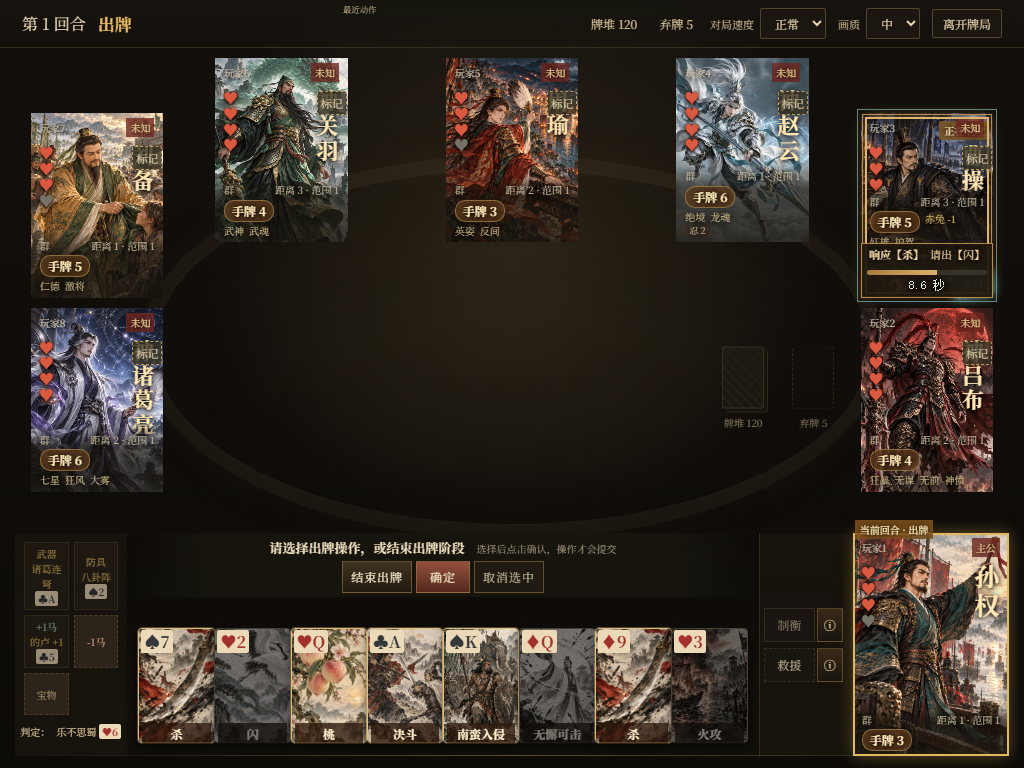
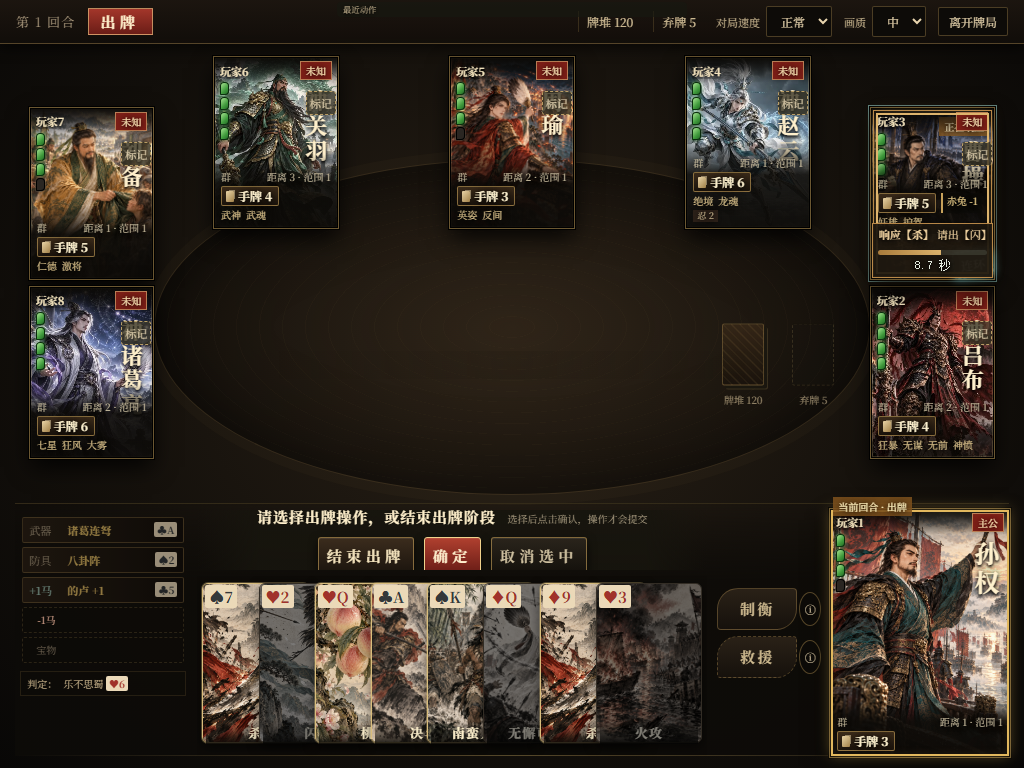
T21 frontend layout interaction and visual refactor
T21.1 visual redesign: lacquer home/lobby/draft screens, mobile-table battle skin

diff --git a/web/src/screens.css b/web/src/screens.css
@@ -1,0 +1,172 @@
+/* T21.1 visual skin for the out-of-game screens: dark lacquer, gold rule lines, ink type.
+   Loads after styles.css/table.css; markup is unchanged. */
+
+:root {
+  --lq-bg: #120f0b;
+  --lq-panel: linear-gradient(180deg, #221a12f2, #15110cf5);
+  --lq-gold: #c9a35c;
+  --lq-gold-hi: #f0d28c;
+  --lq-text: #ecdcb8;
+  --lq-mute: #a6957a;
+  --lq-red: linear-gradient(180deg, #a3362a, #6b1d17);
+  --lq-frame: 0 0 0 1px #000, 0 0 0 2px #c9a35c66, 0 22px 60px #000c;
+}
+
+/* ───────── Shared screen chrome ───────── */
+.home-page, .lobby-page, .pregame-page { color: var(--lq-text); }
+.home-page::before, .table-background::before {
+  background: radial-gradient(ellipse at 30% 40%, transparent 0 30%, #0a0806aa 75%), linear-gradient(90deg, #0a0806ee 0 26%, #0a080655 60%, #0a0806aa);
+}
+.lobby-page::before, .pregame-page::before { background: radial-gradient(ellipse at 50% 40%, #0a080699, #0a0806f0 80%); }
+.home-panel.paper-panel, .lobby-shell.paper-panel, .pregame-shell.paper-panel {
+  background: var(--lq-panel); border: 1px solid #000; border-radius: 2px; box-shadow: var(--lq-frame);
+}
+.home-panel.paper-panel::after, .lobby-shell.paper-panel::after, .pregame-shell.paper-panel::after {
+  inset: 6px; border: 1px solid #c9a35c33;
+  background:
+    linear-gradient(var(--lq-gold), var(--lq-gold)) left top / 22px 2px no-repeat,
+    linear-gradient(var(--lq-gold), var(--lq-gold)) left top / 2px 22px no-repeat,
+    linear-gradient(var(--lq-gold), var(--lq-gold)) right top / 22px 2px no-repeat,
+    linear-gradient(var(--lq-gold), var(--lq-gold)) right top / 2px 22px no-repeat,
+    linear-gradient(var(--lq-gold), var(--lq-gold)) left bottom / 22px 2px no-repeat,
+    linear-gradient(var(--lq-gold), var(--lq-gold)) left bottom / 2px 22px no-repeat,
+    linear-gradient(var(--lq-gold), var(--lq-gold)) right bottom / 22px 2px no-repeat,
+    linear-gradient(var(--lq-gold), var(--lq-gold)) right bottom / 2px 22px no-repeat;
+}
+.home-page .eyebrow, .lobby-page .eyebrow, .pregame-page .eyebrow { color: var(--lq-gold); letter-spacing: .4em; }
+.home-page input, .home-page select, .lobby-page select, .pregame-page input {
+  color: var(--lq-text); background: #0d0b08cc; border: 0; border-bottom: 1px solid #c9a35c88; border-radius: 0; min-height: 44px; padding: 8px 12px;
+}
+.home-page select, .lobby-page select { width: 100%; font: inherit; }
+.home-page input::placeholder { color: #7d6f5a; }
+.home-page input:focus, .pregame-page input:focus { border-bottom-color: var(--lq-gold-hi); box-shadow: 0 6px 12px -8px #f0d28c88; }
+.field-label { color: var(--lq-mute); font-weight: 400; font-size: 13px; letter-spacing: .12em; }
+
+/* Buttons: lacquer plaques with a gold hairline; primary is cinnabar. */
+.home-page .brush-button, .lobby-page .brush-button, .pregame-page .brush-button {
+  position: relative; min-height: 50px; color: #f3e3bd; font-weight: 700; letter-spacing: .3em;
+  background: linear-gradient(180deg, #3b2c1d, #1c150e); border: 1px solid #c9a35c99; border-radius: 2px;
+  box-shadow: inset 0 1px 0 #ffffff14, inset 0 0 0 3px #00000055, 0 6px 16px #0009;
+}
+.home-page .brush-button.primary, .lobby-page .brush-button.primary, .pregame-page .brush-button.primary {
+  background: var(--lq-red); border-color: var(--lq-gold-hi); color: #fff1cf; text-shadow: 0 1px 2px #0008;
+}
+.home-page .brush-button.subtle, .lobby-page .brush-button.subtle, .pregame-page .brush-button.subtle {
+  color: var(--lq-mute); background: #0d0b0899; border-color: #c9a35c44; box-shadow: none;
+}
+.home-page .brush-button:hover:not(:disabled), .lobby-page .brush-button:hover:not(:disabled), .pregame-page .brush-button:hover:not(:disabled) { filter: brightness(1.18); transform: none; border-color: var(--lq-gold-hi); }
+
+/* ───────── Home: title on the art, command column at left ───────── */
+.home-page { place-items: center start; padding: 4vh 0 4vh clamp(24px, 8vw, 150px); }
+.home-panel { width: min(470px, 100%); padding: 40px 44px 26px; text-align: left; }
+.home-panel .seal { right: 28px; top: 34px; width: 54px; height: 54px; font-size: 28px; color: #f5dfb0; background: #8e2219; border: 2px solid #e8c47c; box-shadow: 0 0 0 3px #8e2219, 0 6px 14px #000a; }
+.home-panel h1 {
+  font-size: clamp(64px, 7vw, 104px); letter-spacing: .12em; line-height: 1; margin: 6px 0 0;
+  color: transparent; background: linear-gradient(180deg, #fff2cc 0%, #e6c37a 45%, #9d7432 100%); -webkit-background-clip: text; background-clip: text;
+  filter: drop-shadow(0 3px 0 #000) drop-shadow(0 0 22px #e0b56344);
+}
+.home-panel h2 { margin: 8px 0 18px; font-size: 13px; letter-spacing: .7em; color: #c4483a; }
+.home-copy { margin: 0 0 24px; color: var(--lq-mute); font-size: 13px; }
+.home-actions { gap: 10px; margin: 22px 0 12px; }
+.home-actions .brush-button { min-height: 60px; font-size: 18px; }
+.home-panel .field-label { margin-top: 10px; }
+.test-mode-panel { text-align: center; }
+.test-mode-panel .brush-button.compact { min-height: 34px; padding: 4px 16px; font-size: 12px; letter-spacing: .2em; }
+.join-row { margin-top: 12px; padding-top: 14px; border-top: 1px solid #c9a35c22; }
+.join-row .brush-button { min-height: 44px; }
+.god-preview-entry, .network-entry { color: #8d7b5f; font-size: 12px; }
+.home-panel footer { color: #7a6b56; border-top: 1px solid #c9a35c1f; padding-top: 12px; }
+.resume-panel { padding: 10px; background: #3a1d14cc; border: 1px solid #c9a35c66; }
+
+/* ───────── Lobby: seats as portrait-shaped seat plaques ───────── */
+.lobby-header { border-bottom-color: #c9a35c33; }
+.lobby-header h1 { color: var(--lq-gold-hi); font-size: 34px; }
+.room-code-box { background: #0d0b08; border: 1px solid var(--lq-gold); box-shadow: inset 0 0 0 3px #000, inset 0 0 0 4px #c9a35c44; }
+.room-code-box strong { color: var(--lq-gold-hi); text-shadow: 0 0 14px #f0d28c55; }
+.lobby-options { color: var(--lq-mute); }
+.lobby-options select { width: auto; min-height: 34px; border: 1px solid #c9a35c55; }
+.seat-grid { gap: 12px; margin: 26px 0 18px; }
+.lobby-seat {
+  min-height: 0; aspect-ratio: .72; display: flex; flex-direction: column; align-items: center; justify-content: center; padding: 16px 8px;
+  color: var(--lq-text); background: radial-gradient(ellipse at 50% 35%, #3a2b1c, #120e0a 75%); border: 1px solid #c9a35c33;
+}
+.lobby-seat.empty { background: repeating-linear-gradient(135deg, transparent 0 9px, #c9a35c0d 9px 10px), #0e0b08; border-style: dashed; }
+.lobby-seat.human { border-color: var(--lq-gold); box-shadow: inset 0 0 30px #c9a35c22, 0 0 0 1px #000, 0 0 18px #c9a35c33; background: radial-gradient(ellipse at 50% 30%, #5a3a20, #150f0a 78%); }
+.lobby-seat.ai { border-color: #6f8a8f88; }
+.seat-number { top: 8px; left: 10px; color: var(--lq-gold); font-size: 14px; font-weight: 700; }
+.seat-avatar { width: 84px; height: 84px; margin: 0 auto 14px; font-size: 32px; color: #f5e2b6; background: radial-gradient(circle at 35% 28%, #8a3b2a, #2a120d); border: 2px solid var(--lq-gold); box-shadow: 0 0 0 4px #00000088, 0 0 0 5px #c9a35c55; }
+.lobby-seat.empty .seat-avatar { background: #15110c; color: #5e5242; border-color: #c9a35c44; }
+.lobby-seat h3 { color: var(--lq-text); font-size: 17px; }
+.lobby-seat p { color: var(--lq-mute); font-size: 12px; }
+.seat-badges { min-height: 0; margin-top: 10px; }
+.seat-badges span { color: var(--lq-mute); background: #0d0b08aa; border-color: #c9a35c33; }
+.seat-badges .host-badge { color: #fff0c7; background: #8e2219; border-color: #e8c47c; }
+.seat-badges .ready { color: #a9d39a; border-color: #5e8a52; }
+.seat-badges .waiting { color: #e0907e; }
+.lobby-note { color: var(--lq-mute); font-size: 13px; }
+.lobby-actions .brush-button { min-width: 180px; min-height: 54px; font-size: 17px; }
+
+/* ───────── Draft: card wall at left, dossier at right ───────── */
+.pregame-page { padding: 18px; }
+.pregame-shell {
+  width: min(1500px, 100%); height: calc(100dvh - 36px); padding: 22px 26px;
+  display: grid; grid-template-columns: minmax(0, 1fr) clamp(300px, 26vw, 400px); grid-template-rows: auto minmax(0, 1fr) auto; gap: 16px 22px;
+}
+.pregame-shell > .pregame-header { grid-column: 1 / -1; padding-bottom: 14px; border-bottom-color: #c9a35c33; }
+.pregame-header h1 { color: var(--lq-gold-hi); font-size: 32px; }
+.pregame-header p { color: var(--lq-mute); }
+.identity-reveal { flex: 0 0 104px; min-height: 104px; transform: none; background: radial-gradient(circle, #9a2a20, #3a100c); border: 2px solid var(--lq-gold-hi); box-shadow: 0 0 0 4px #000, 0 0 0 5px #c9a35c88, 0 0 24px #9a2a2088; }
+.identity-reveal strong { font-size: 30px; color: #ffe9b8; }
+.pregame-header .timer span { color: var(--lq-gold-hi); }
+.pregame-header .timer > div { background: #ffffff14; }
+.pregame-shell > .field-label { grid-column: 1; }
+.pregame-shell > .general-grid { grid-column: 1; grid-row: 2; margin: 0; padding: 10px 4px 4px; overflow-y: auto; align-content: start; gap: 14px; }
+.pregame-shell:has(> .field-label) > .general-grid { grid-row: 3; }
+.general-card {
+  padding: 0; aspect-ratio: .72; color: var(--lq-text); background: #0d0b08; border: 1px solid #000;
+  box-shadow: 0 0 0 1px #c9a35c55, 0 8px 18px #000a; transition: transform .14s, box-shadow .14s;
+}
+.general-card img { position: absolute; inset: 0; height: 100%; aspect-ratio: auto; }
+.general-card::after { content: ''; position: absolute; inset: 0; background: linear-gradient(180deg, transparent 52%, #0d0b08 92%); pointer-events: none; }
+.general-card strong, .general-card small { position: absolute; z-index: 1; left: 0; right: 0; text-align: center; }
+.general-card strong { bottom: 30px; margin: 0; font-size: 19px; letter-spacing: .2em; color: #ffe9b8; text-shadow: 0 2px 4px #000; }
+.general-card small { bottom: 8px; min-height: 0; color: var(--lq-mute); font-size: 11px; white-space: nowrap; overflow: hidden; text-overflow: ellipsis; padding: 0 6px; }
+.general-card .kingdom { z-index: 1; width: 30px; height: 30px; left: 6px; top: 6px; font-weight: 700; border: 1px solid var(--lq-gold-hi); box-shadow: 0 2px 6px #000; }
+.general-card:hover:not(:disabled) { transform: translateY(-4px); box-shadow: 0 0 0 1px var(--lq-gold), 0 12px 24px #000c; }
+.general-card.selected { transform: translateY(-6px); border-color: #000; box-shadow: 0 0 0 2px var(--lq-gold-hi), 0 0 0 5px #000, 0 0 0 6px var(--lq-gold), 0 0 26px #f0d28c66; }
+.pregame-shell > .general-detail {
+  grid-column: 2; grid-row: 2; display: flex; flex-direction: column; gap: 12px; min-height: 0; overflow-y: auto; padding: 14px;
+  color: var(--lq-text); background: #0d0b08cc; border: 1px solid #c9a35c44;
+}
+.pregame-shell > .general-detail > .dynamic-portrait { width: 100%; height: auto; aspect-ratio: .9; flex: 0 0 auto; border: 1px solid #c9a35c66; }
+.pregame-shell > .general-detail > .dynamic-portrait :is(img, video) { object-fit: cover; object-position: top; }
+.general-detail h2 { color: var(--lq-gold-hi); font-size: 26px; letter-spacing: .15em; }
+.general-detail h2 span, .general-detail h3 em { color: #d9806c; }
+.general-detail h3 { color: #f0d9a8; }
+.general-detail p { color: #cdbf9f; font-size: 13px; }
+.general-detail section { border-top-color: #c9a35c22; }
+.pregame-shell > .pregame-actions { grid-column: 2; grid-row: 3; margin: 0; }
+.pregame-actions .brush-button { width: 100%; min-height: 58px; font-size: 19px; }
+
+@media (max-width: 900px) and (min-height: 601px) {
+  .home-page { place-items: center; padding: 24px; }
+  .pregame-shell { height: auto; grid-template-columns: 1fr; }
+  .pregame-shell > .general-grid, .pregame-shell > .general-detail, .pregame-shell > .pregame-actions { grid-column: 1; grid-row: auto; }
+  .pregame-shell > .general-detail > .dynamic-portrait { max-width: 200px; }
+}
+
+/* Iteration 2 */
+.home-page .brush-button, .lobby-page .brush-button, .pregame-page .brush-button { letter-spacing: .14em; }
+.home-actions .brush-button { white-space: nowrap; font-size: 17px; }
+.general-card.selected::before {
+  content: '已选'; position: absolute; z-index: 2; inset: 0; padding: 8px 8px 0 0; text-align: right;
+  font-size: 12px; font-weight: 700; letter-spacing: .2em; color: #2a190d;
+  border: 2px solid var(--lq-gold-hi); box-shadow: inset 0 0 0 3px #000a, inset 0 0 34px #f0d28c66;
+  background: linear-gradient(225deg, var(--lq-gold-hi) 0 34px, transparent 34px);
+}
+.general-card.selected strong { color: #fff3cf; text-shadow: 0 0 10px #f0d28c, 0 2px 4px #000; }
+.pregame-shell > .general-grid { padding: 10px 10px 6px; }
+.pregame-shell > .general-detail > .dynamic-portrait { aspect-ratio: 1.25; }
+.background-music { padding: 4px 8px; color: var(--lq-text); background: #120e0ae6; border: 1px solid #c9a35c55; border-radius: 2px; }
+.background-music button { color: var(--lq-text); background: transparent; border: 1px solid #c9a35c55; border-radius: 2px; padding: 3px 8px; font-size: 12px; }
+.background-music input { accent-color: var(--lq-gold); }

diff --git a/web/src/battle-skin.css b/web/src/battle-skin.css
@@ -1,0 +1,97 @@
+/* T21.1 battle-table skin (mobile-table proportions). Visual only; layout anchors live in table.css. */
+
+.game-page { background: #0e0c09; }
+.game-page.table-background::before { background: radial-gradient(ellipse at 50% 46%, #2a2117 0%, #15110c 55%, #080706 100%); }
+.game-board::before {
+  border: 1px solid #c9a35c26; border-radius: 50%;
+  background: radial-gradient(ellipse, #3b2d1d55 0%, #1c160f33 55%, transparent 72%),
+    repeating-radial-gradient(ellipse, transparent 0 22px, #c9a35c08 22px 23px);
+  box-shadow: inset 0 0 80px #000a, 0 0 0 10px #c9a35c08;
+}
+
+/* ── Top HUD: slim lacquer bar, round + phase seal at left, table stats and controls at right ── */
+.game-hud { height: 44px; padding: 0 16px; background: linear-gradient(#1d1610f5, #120e0af0); border-bottom: 1px solid #c9a35c55; box-shadow: 0 4px 14px #0009; }
+.game-hud > div:first-child span { color: #a6957a; font-size: 13px; letter-spacing: .1em; }
+.game-hud strong { padding: 2px 12px; font-size: 15px; letter-spacing: .3em; color: #fff0cc; background: linear-gradient(#a3362a, #6b1d17); border: 1px solid #f0d28c99; }
+.game-hud .pile-stats span { color: #d8c49b; font-size: 12px; padding: 2px 8px; border-left: 1px solid #c9a35c33; }
+.game-hud select, .game-hud button { background: #0d0b08; border: 1px solid #c9a35c55; color: #e8d5ae; border-radius: 2px; }
+.game-hud button:hover { border-color: #f0d28c; }
+@media (min-width: 721px) and (min-height: 601px) { .game-board { height: 100vh; height: 100dvh; } }
+
+/* ── Seats: framed portrait plaque, name banner, jade HP pips, card-count tag ── */
+.game-board .player-panel .portrait-button { box-shadow: 0 0 0 1px #000, 0 0 0 2px #c9a35c88, 0 0 0 3px #000, 0 10px 22px #000d; }
+.game-board .player-panel .dynamic-portrait::after { content: ''; position: absolute; inset: 0; box-shadow: inset 0 0 0 1px #f0d28c33, inset 0 -60px 40px -30px #000c, inset 0 40px 30px -30px #000c; pointer-events: none; }
+.game-board .player-heading { top: 0; left: 0; right: 0; padding: 3px 5px; background: linear-gradient(#0d0b08f0, #0d0b0800); }
+.game-board .player-heading strong { color: #f3e3bd; font-size: 11px; font-weight: 700; max-width: 62%; overflow: hidden; white-space: nowrap; text-overflow: ellipsis; }
+.game-board .player-heading span { margin-left: auto; padding: 1px 5px; font-size: 10px; color: #ffe9b8; background: #7d1f17; border: 1px solid #f0d28c88; }
+.game-board .general-line b { color: #fff0cc; text-shadow: 0 0 6px #000, 0 2px 3px #000; }
+.game-board .hp-row { top: 24px; left: 5px; gap: 2px; }
+.game-board .hp-row i { display: block; width: 9px; height: 13px; font-size: 0; border-radius: 4px 4px 4px 1px; background: #2a2622; box-shadow: inset 0 0 0 1px #000, 0 0 0 1px #5d554766; }
+.game-board .hp-row i.full { background: linear-gradient(135deg, #b9f29f, #3f9a3c 60%, #1f5e22); box-shadow: inset 0 0 0 1px #0a2a0d, 0 0 4px #6fd16a88; }
+.game-board .hp-row.hp-mid i.full { background: linear-gradient(135deg, #fff1a0, #d6a32a 60%, #7a5a10); box-shadow: inset 0 0 0 1px #2e2205, 0 0 4px #e8c04f88; }
+.game-board .hp-row.hp-low i.full { background: linear-gradient(135deg, #ffb39e, #d0402d 60%, #6e160d); box-shadow: inset 0 0 0 1px #2c0703, 0 0 5px #ff5a3caa; }
+.game-board .seat-caption { padding: 16px 6px 5px; background: linear-gradient(transparent, #0d0b08e6 40%); }
+.game-board .hand-count {
+  display: inline-flex; align-items: center; gap: 4px; padding: 0 6px 0 4px; border-radius: 2px; font-size: 12px;
+  color: #fff3d0; background: linear-gradient(#3a2a19, #1a130c); border: 1px solid #c9a35c99;
+}
+.game-board .hand-count::before { content: ''; width: 8px; height: 11px; border-radius: 1px; background: linear-gradient(135deg, #e8d3a6, #a3824a); box-shadow: 2px -2px 0 -1px #e8d3a688; }
+.game-board .player-zones .equipment-token { display: inline-block; padding: 0 4px; color: #f0d28c; background: #0d0b08b3; border-left: 2px solid #c9a35c; font-size: 10px; }
+.game-board .mini-skills span { color: #d9c08a; }
+
+/* ── Local HUD: equipment bars · prompt + big buttons over a larger hand · plaque skills · portrait ── */
+@media (min-width: 721px) and (min-height: 601px) {
+  .game-board { --local-h: clamp(250px, 33vh, 330px); --prompt-h: 60px; --card-w: min(140px, calc((var(--local-h) - var(--prompt-h) - 34px) * .667)); }
+  .game-board.eight-seats { --seat-h: clamp(140px, 22vh, 232px); }
+  .game-board:not(.eight-seats) { --seat-h: clamp(180px, 30vh, 300px); }
+  .game-board .self-area, .game-board.eight-seats .self-area { grid-template-columns: 176px minmax(0, 1fr) 112px var(--local-w); background: linear-gradient(transparent, #0d0b08d9 30%); border-top: 1px solid #c9a35c33; padding-top: 6px; }
+  .game-board .self-area .equipment-area, .game-board .self-area .skill-area { background: none; border: 0; }
+}
+.equipment-slots { grid-template-columns: 1fr; gap: 4px; padding: 2px; }
+.equipment-choice, .equipment-empty {
+  display: grid; grid-template-columns: 34px 1fr auto; align-items: center; gap: 4px; min-height: 26px; padding: 2px 6px; text-align: left;
+  color: #e9d6ab; background: linear-gradient(90deg, #2c2116, #15100b); border: 1px solid #c9a35c55; border-radius: 2px;
+}
+.equipment-choice small, .equipment-choice b { display: inline; font-size: 11px; }
+.equipment-choice small { color: #a6957a; }
+.equipment-choice b { font-weight: 700; overflow: hidden; white-space: nowrap; text-overflow: ellipsis; }
+.equipment-empty { color: #6f6352; background: #0d0b0899; border-style: dashed; border-color: #c9a35c2a; }
+.equipment-choice.selected { transform: translateX(6px); }
+.local-judgments { margin-top: 6px; padding: 4px 6px; color: #c8b28a; background: #0d0b0880; border: 1px solid #c9a35c22; }
+.game-board .skill-bar { gap: 8px; }
+.game-board .skill-bar .skill-detail-trigger { display: flex; }
+.game-board .skill-bar button.skill-btn { min-height: 42px; font-size: 15px; font-weight: 700; letter-spacing: .15em; border-radius: 21px 4px 21px 4px; }
+.game-board .skill-bar button.skill-btn.unavailable { color: #cdb98f; background: linear-gradient(#2a2117, #16110c); border-color: #c9a35c55; }
+.game-board .skill-bar .skill-info { border-radius: 50%; min-width: 22px; height: 22px; align-self: center; padding: 0; font-size: 11px; color: #e8d5ae; background: #0d0b08; border: 1px solid #c9a35c66; }
+.game-board .self-area .decision-prompt { gap: 10px; }
+.game-board .self-area .decision-prompt .prompt-copy strong { font-size: 15px; color: #fff0cc; letter-spacing: .06em; }
+.game-board .decision-prompt .brush-button {
+  min-width: 96px; min-height: 36px; font-size: 15px; font-weight: 700; letter-spacing: .3em; color: #f3e3bd;
+  background: linear-gradient(#3b2c1d, #1c150e); border: 1px solid #c9a35c99; border-radius: 3px; box-shadow: inset 0 1px 0 #ffffff14, 0 4px 10px #000a;
+}
+.game-board .decision-prompt .brush-button.primary { color: #fff1cf; background: linear-gradient(#b0402f, #6b1d17); border-color: #f0d28c; }
+.game-board .decision-prompt .brush-button.subtle { color: #cdbf9f; background: linear-gradient(#2a241b, #14110c); }
+.game-board .hand-card img { border-radius: 6px; border-color: #6e5532; }
+.game-board .hand-card > strong { font-size: 13px; letter-spacing: .1em; background: linear-gradient(transparent, #0d0b08e6); }
+.game-board .card-corner .suit-text { font-size: 15px; padding: 1px 4px; }
+
+/* ── Center resolution: framed public cards, banner caption ── */
+.game-board .center-action-card img, .game-board .public-resolution-card img { border-radius: 6px; box-shadow: 0 0 0 1px #000, 0 0 0 2px #c9a35caa, 0 14px 28px #000d; }
+.game-board .center-action-card b { background: linear-gradient(transparent, #0d0b08ee); color: #fff0cc; letter-spacing: .15em; }
+.game-board .event-stage strong {
+  padding: 6px 44px; color: #fff0cc; letter-spacing: .12em;
+  background: linear-gradient(90deg, transparent, #0d0b08e8 18% 82%, transparent);
+  border-image: linear-gradient(90deg, transparent, #c9a35c, transparent) 1; border-width: 1px 0; border-style: solid;
+}
+.game-board .event-stage small { color: #d8c49b; }
+.game-board .nullification-status { color: #dffaf3; background: #0f2a27e6; border: 1px solid #79bdb4aa; letter-spacing: .1em; }
+.game-board .table-piles { opacity: .8; }
+.game-board .table-deck { border-color: #c9a35c66; background: repeating-linear-gradient(45deg, #c9a35c22 0 1px, transparent 1px 6px), linear-gradient(#3a2a19, #1a130c); }
+
+@media (orientation: landscape) and (max-height: 600px) {
+  .game-hud { height: 40px; }
+  .game-board .skill-bar button.skill-btn { min-height: 36px; font-size: 12px; letter-spacing: .04em; white-space: nowrap; }
+  .game-board .hand-card > strong { font-size: 10px; letter-spacing: 0; white-space: nowrap; overflow: hidden; }
+  .equipment-choice, .equipment-empty { grid-template-columns: 26px 1fr; min-height: 22px; padding: 1px 4px; }
+  .equipment-choice .suit-text { display: none; }
+}

diff --git a/web/e2e/t21-shots.spec.ts b/web/e2e/t21-shots.spec.ts
@@ -1,0 +1,17 @@
+import { test, expect } from '@playwright/test'
+const dir = `../docs/t21/${process.env.T21_PHASE ?? 'after'}`
+test('T21 home lobby draft shots', async ({ page }) => {
+  await page.setViewportSize({ width: 1440, height: 900 })
+  await page.goto('/?seed=21')
+  await page.waitForTimeout(800)
+  await page.screenshot({ path: `${dir}/home.png` })
+  await page.getByLabel('玩家昵称').fill('主公')
+  await page.getByRole('button', { name: '创建多人房间', exact: true }).click()
+  await expect(page.locator('.lobby-seat').first()).toBeVisible()
+  await page.screenshot({ path: `${dir}/lobby.png` })
+  await page.getByRole('button', { name: '开始游戏', exact: true }).click()
+  await expect(page.locator('.general-card').first()).toBeVisible()
+  await page.locator('.general-card').nth(1).click()
+  await page.waitForTimeout(600)
+  await page.screenshot({ path: `${dir}/draft.png` })
+})

diff --git a/web/src/components/PlayerPanel.tsx b/web/src/components/PlayerPanel.tsx
@@ -79,7 +79,7 @@ export function PlayerPanel({ player, position, selected, selectable, dimmed = f
     </button>
     <div className="player-heading"><strong>{player.name}</strong><span>{player.identity_label}</span></div>
     <div className="general-line"><b>{player.character_name}</b></div>
-    <div className="hp-row" aria-label={player.hp + ' / ' + player.max_hp + ' 体力'}>
+    <div className={'hp-row hp-' + (player.hp <= 1 ? 'low' : player.hp * 2 <= player.max_hp ? 'mid' : 'high')} aria-label={player.hp + ' / ' + player.max_hp + ' 体力'}>
       {Array.from({ length: player.max_hp }, (_, index) => <i key={index} className={index < player.hp ? 'full' : ''}>♥</i>)}
     </div>
     <div className="seat-caption">

diff --git a/web/e2e/fixtures/t15.html b/web/e2e/fixtures/t15.html
@@ -5,6 +5,7 @@ import { createRoot } from 'react-dom/client'
 import { GamePage } from '/src/components/GamePage.tsx'
 import '/src/styles.css'
 import '/src/table.css'
+import '/src/battle-skin.css'
 const ids = ['wind_zhang_jiao', 'forest_god_lvbu', 'wind_god_guanyu', 'fire_god_zhouyu', 'mountain_god_zhaoyun']
 const names = ['张角', '神吕布', '神关羽', '神周瑜', '神赵云']
 const params = new URLSearchParams(location.search)

diff --git a/web/src/App.tsx b/web/src/App.tsx
@@ -7,6 +7,8 @@ import { GodShowcase } from './components/GodShowcase'
 import { useGame } from './state/GameContext'
 import './styles.css'
 import './table.css'
+import './screens.css'
+import './battle-skin.css'
 import './god-lvbu-motion.css'
 
 export default function App() {
